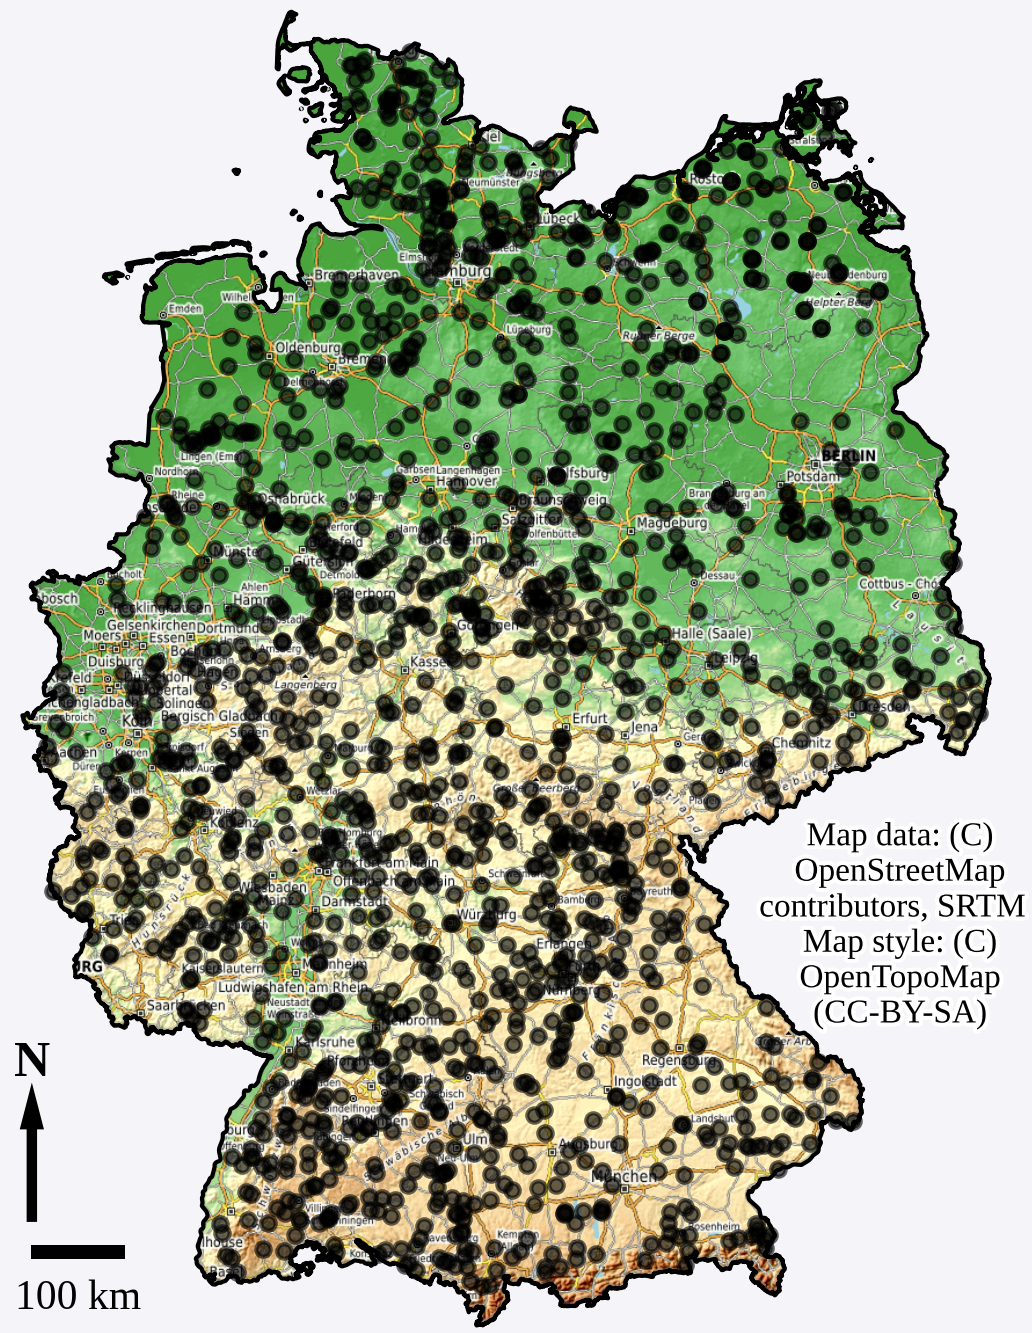
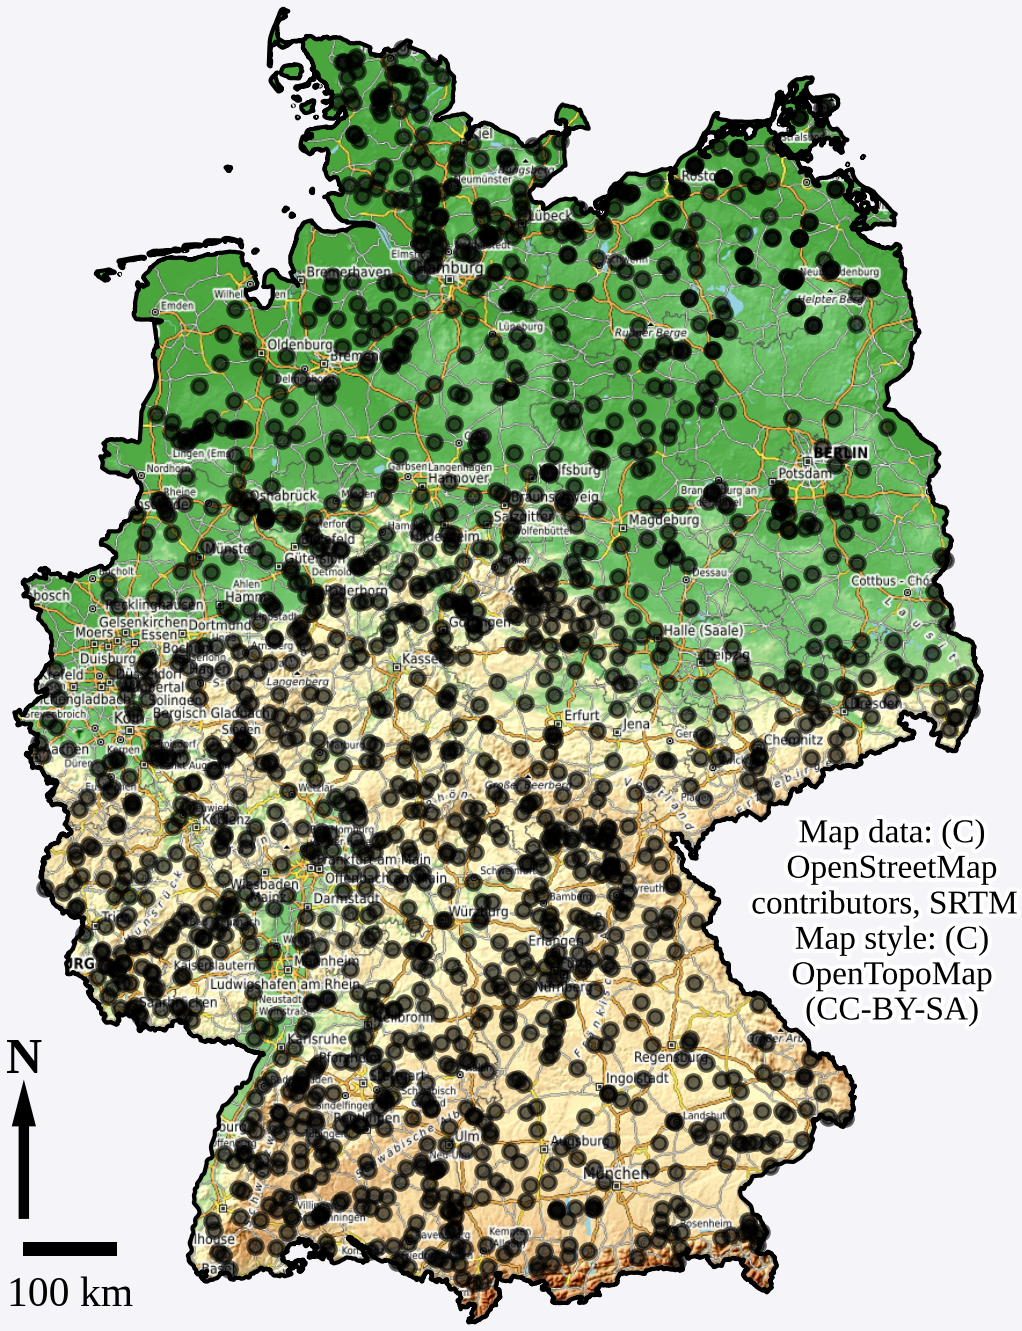
CAMELS-DE v1.0.0

diff --git a/docs/index.html b/docs/index.html
@@ -76,17 +76,19 @@
         <h2>CAMELS-DE</h2>
         <div class="introduction">
             <p>
-                CAMELS-DE (<b>C</b>atchment <b>A</b>ttributes and <b>Me</b>teorology for <b>L</b>arge-sample <b>S</b>tudies) is a hydro-meteorological dataset which offers data for 1555 catchments in Germany.<br>
+                CAMELS-DE (<b>C</b>atchment <b>A</b>ttributes and <b>Me</b>teorology for <b>L</b>arge-sample <b>S</b>tudies) is a hydro-meteorological dataset which offers data for 1582 catchments in Germany.<br>
                 The time series data of hydro-meteorological variables is in daily resolution and spans up to 70 years, from January 1951 to December 2020. Additionally, the dataset includes a set of derived catchment attributes,
                 such as soil properties, land cover, and topographic data as well as time series data of simulated discharge from a regional Long-Short Term Memory (LSTM) network and a conceptual hydrological model.
-                The catchment boundaries are also provided in the dataset, which allows for the derivation of further catchment attributes. <br><br><br><br><br>
+                The catchment boundaries are also provided in the dataset, which allows for the derivation of further catchment attributes. <br><br>
+                You can find comprehensive information about CAMELS-DE in the <b>CAMELS-DE data descriptor paper</b> <a href="https://doi.org/10.5194/essd-2024-318" target="_blank">10.5194/hess-2021-377</a>
+                <br><br><br><br>
 
                 <span style="background-color: #bbdfee; border: 3px solid black; box-shadow: 6px 10px black; font-weight: bold; font-size: 120%; padding: 1%;">
                     <b>Download CAMELS-DE:</b> 
-                    <a href="https://doi.org/10.5281/zenodo.12760336" target="_blank">10.5281/zenodo.12760336</a>
+                    <a href="https://doi.org/10.5281/zenodo.13837553" target="_blank">10.5281/zenodo.13837553</a>
                 </span><br>
             </p>
-            <img src="assets/germany_stations.png" alt="Map of all 1555 gauging stations">
+            <img src="assets/germany_stations.png" alt="Map of all 1582 gauging stations">
         </div>
         <h2>Processing Pipeline</h2>
         <p>
